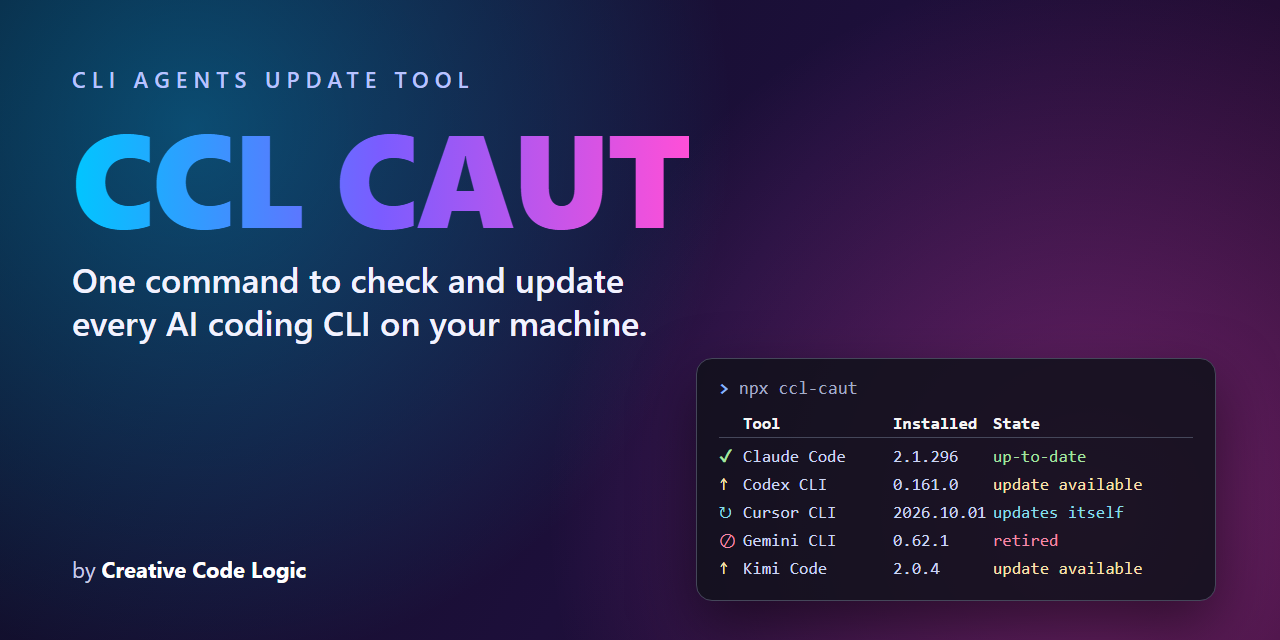
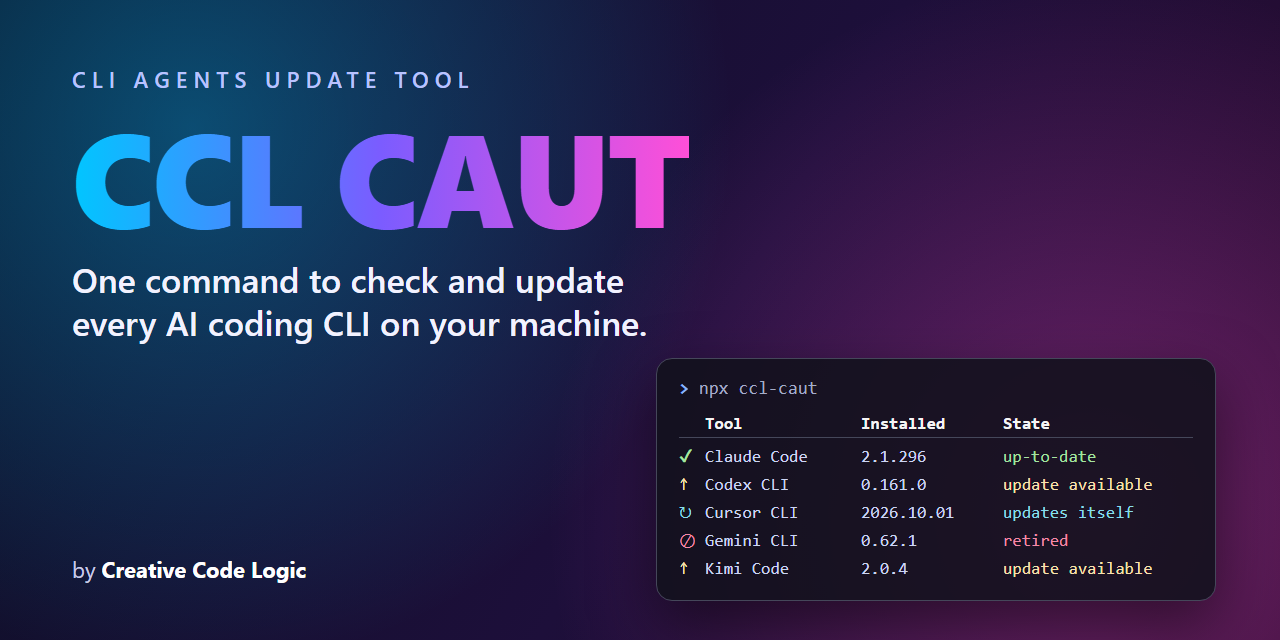
Public roadmap; social preview B with a wider Installed column
- ROADMAP.md (public summary; milestones track the work), linked from
  the README; RELEASING: update ROADMAP.md and close the milestone with
  each release
- docs/social-preview-b.png re-rendered with a wider Installed column so
  "2026.10.01" no longer touches "updates itself"; variant A removed

Changed region(s): [[0.5, 0.5625, 0.9062, 0.9375]]

diff --git a/ROADMAP.md b/ROADMAP.md
@@ -1,0 +1,73 @@
+# Roadmap
+
+> **Plans, not promises.** The AI CLI landscape changes fast: tools get renamed, retired and replaced within weeks. Priorities here shift with it. Day-to-day progress lives in the [milestones](https://github.com/CreativeCodeLogic/ccl-cli-agents-update-tool/milestones).
+
+## What every version keeps
+
+1. **Safe by design.** Updates run automatically only for global npm installs and a tool's own documented updater. Everything else gets the exact command to copy and the reason.
+2. **Not an installer.** CCL CAUT never installs a tool. `--discover` links you to each vendor's official install docs.
+3. **Never touches your projects.** Only global installs are updated. A project's `node_modules`, `package.json` and lockfile are never changed.
+4. **Checked against official docs.** Install methods and update commands come from each vendor's own docs. A weekly canary run catches upstream changes.
+5. **Honest results.** Every update is re-checked. You see "updates itself", "retired" or "held" instead of a guess.
+6. **No telemetry.**
+
+## Now: 1.0
+
+12 tools: Claude Code, Codex, GitHub Copilot, Cursor, OpenCode, Gemini (retired), Antigravity, Qwen Code, Kimi Code, Firebase, Google Cloud CLI and npm.
+
+**1.0.x patches** focus on confirming every automatic update path on real Windows, macOS and Linux machines, and on fixing what people report.
+
+## Next
+
+### 1.1: Dev CLIs
+
+- **Two groups in the table:** AI agents and Dev CLIs. Firebase, the Google Cloud CLI and npm move to Dev CLIs, and you can hide a group you don't need.
+- **New Dev CLIs:** Wrangler, Vercel CLI, Netlify CLI, Supabase CLI and GitHub CLI.
+- **Project-copy check:** when you run CCL CAUT inside a project that pins its own copy of a tool (for example `wrangler` in `devDependencies`), it tells you the global update won't affect that project.
+- **Per-project notes:** tools whose vendors recommend installing them per project say so on their row.
+- **Beta channel:** try upcoming versions early with `npx ccl-caut@next`.
+
+### 1.2: More agents
+
+- **Python tool detection** for tools installed with uv, pipx or pip.
+- **New agents:** Aider, Mistral Vibe, Cline, Amp, Kiro CLI and Goose.
+
+### 1.3: Polish
+
+- A table that fills in live, row by row, as each check finishes.
+- Update CCL CAUT itself from the checklist.
+- Ready-made recipes for scheduled runs (cron, launchd, Task Scheduler) using `--yes`.
+- winget updates run automatically where a vendor's unattended upgrade has been shown to work reliably.
+- The canary run also on macOS and Windows.
+
+## Later (ideas)
+
+- Hold a tool at its current version until you release it.
+- A "what's new" link next to each update.
+- Standalone binaries for people who don't have Node.js.
+- CCL CAUT through Homebrew, Scoop and winget.
+- Hide individual tools from the table.
+
+## Not planned
+
+These are deliberate choices, not gaps:
+
+- **Installing tools**, or running `curl … | bash` / `irm … | iex` scripts for you. Installing is your call, using the vendor's instructions.
+- **Changing project dependencies**, lockfiles or `node_modules`.
+- **Telemetry** or usage tracking of any kind.
+- **A full-screen interface that disappears on exit.** The summary and the commands to copy stay in your terminal.
+
+## Release channels
+
+| Channel | How to run it | What it is |
+| --- | --- | --- |
+| Stable | `npx ccl-caut` | Released versions |
+| Beta (from 1.1) | `npx ccl-caut@next` | Upcoming versions, before they become stable |
+| Source | clone `main`, then `npm ci && npm run build` | Latest development work |
+
+A beta becomes stable once it passes the full CI matrix and the canary run, has been tested on real Windows, macOS and Linux machines, and has spent at least a week in beta with no reports of a wrong command or a false success.
+
+## Suggest something
+
+- **Want a CLI supported?** Open a [CLI support request](https://github.com/CreativeCodeLogic/ccl-cli-agents-update-tool/issues/new/choose) with a link to its official install docs.
+- **Found a bug?** Open a [bug report](https://github.com/CreativeCodeLogic/ccl-cli-agents-update-tool/issues/new/choose) and include `ccl-caut --json` output (please redact usernames in paths).

diff --git a/RELEASING.md b/RELEASING.md
@@ -70,14 +70,15 @@ Do these in order. Claude never changes repository visibility or publishes to np
 ## Cutting a release (after 1.0.0)
 
 1. Move the entries under `## [Unreleased]` in `CHANGELOG.md` to a new `## [x.y.z] - YYYY-MM-DD` section and update the compare links at the bottom.
-2. Bump, tag and push:
+2. Update `ROADMAP.md` (move shipped items to "Now", adjust "Next") and close the matching GitHub milestone.
+3. Bump, tag and push:
 
    ```bash
    npm version x.y.z -m "Release v%s"   # updates package.json + lock, commits, tags vx.y.z
    git push --follow-tags
    ```
 
-3. **Actions → Release** runs typecheck, tests and build, publishes to npm through trusted publishing (OIDC, with provenance) and creates the GitHub Release. Pre-release versions (`x.y.z-beta.1`) go to the `next` dist-tag and are marked as pre-releases.
+4. **Actions → Release** runs typecheck, tests and build, publishes to npm through trusted publishing (OIDC, with provenance) and creates the GitHub Release. Pre-release versions (`x.y.z-beta.1`) go to the `next` dist-tag and are marked as pre-releases.
 
 Published npm versions are immutable: if something is wrong, fix it and release a new patch version.
 

diff --git a/README.md b/README.md
@@ -214,6 +214,10 @@ export const mytool = createNpmPackageTool({
 
 Then add it to the list in [`src/registry/index.ts`](src/registry/index.ts). Tools with their own installer implement the `ToolDescriptor` interface directly (see `antigravity.ts`, `cursor.ts` and `gcloud.ts`): read the installed version, look up the latest one, and return an `auto` or `manual` update plan per install method. Optional fields cover `deprecation`, `selfUpdating` and `identify` (for generic binary names). See [CONTRIBUTING.md](CONTRIBUTING.md) for tests.
 
+## Roadmap
+
+What's next (Dev CLIs, more agents, polish) and what's deliberately not planned: see [ROADMAP.md](ROADMAP.md).
+
 ## License
 
 MIT © Creative Code Logic. See [LICENSE](LICENSE).
